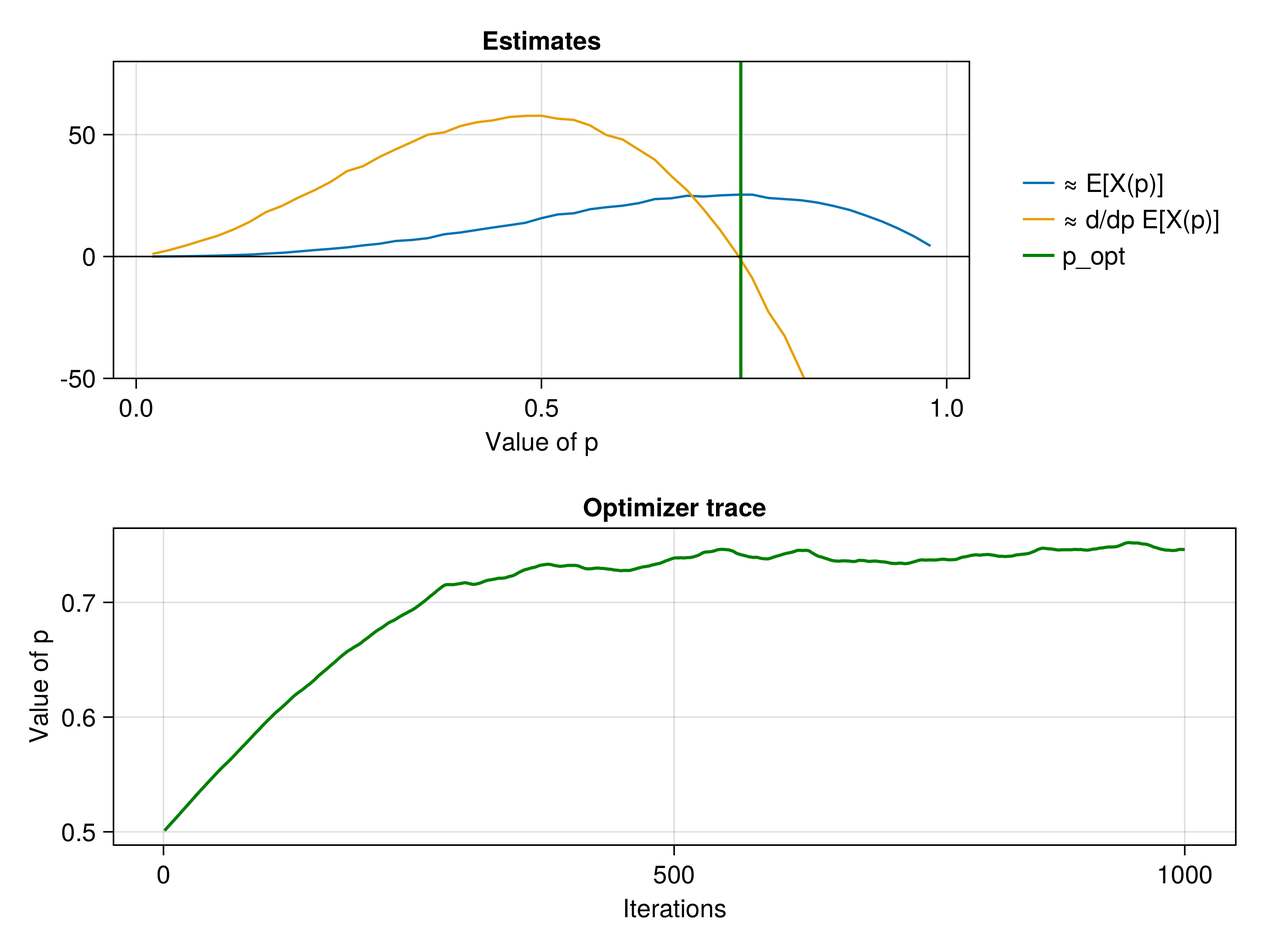
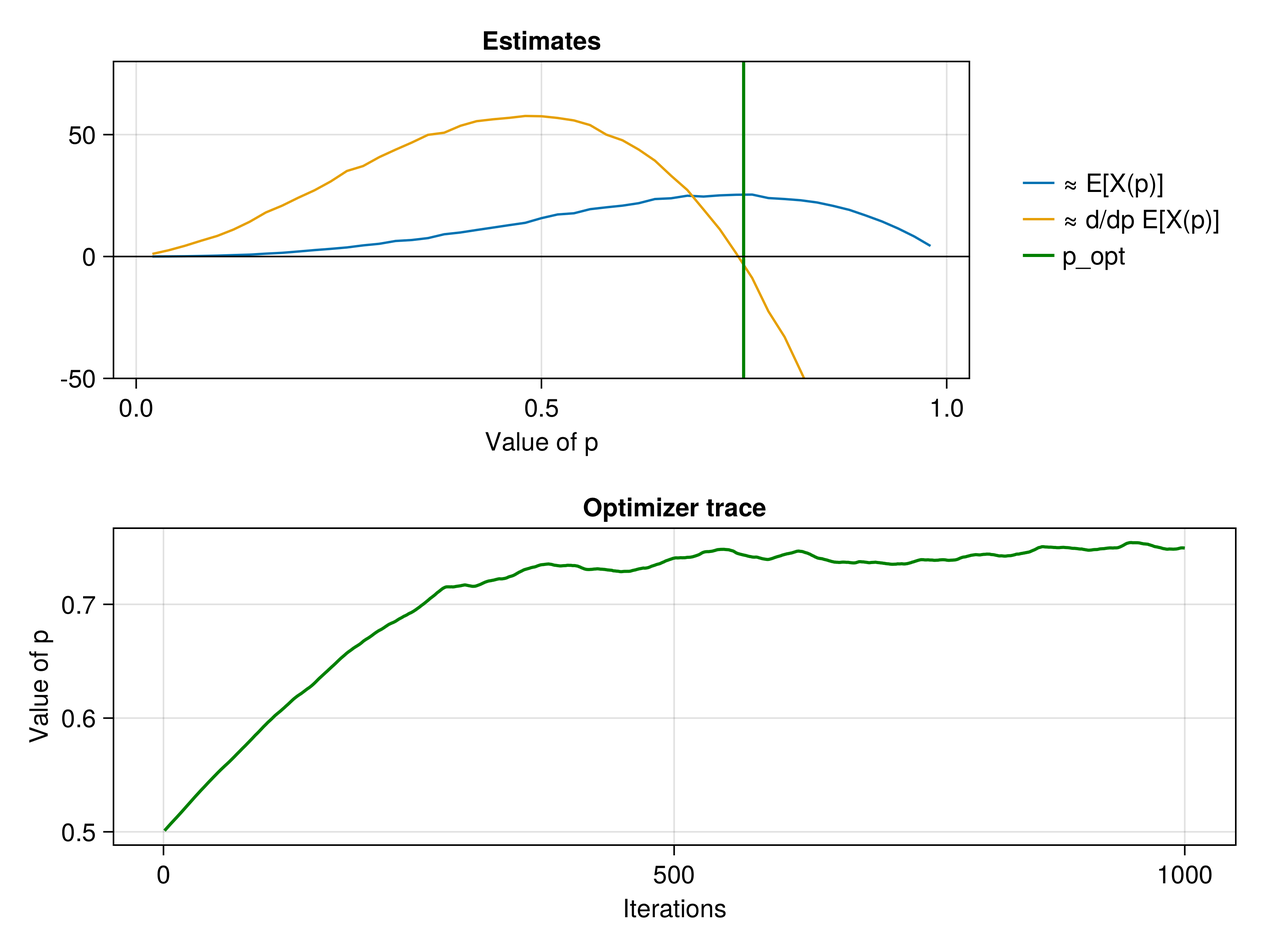
build based on 7ea0443

diff --git a/dev/public_api.html b/dev/public_api.html
@@ -1,3 +1,3 @@
 <!DOCTYPE html>
-<html lang="en"><head><meta charset="UTF-8"/><meta name="viewport" content="width=device-width, initial-scale=1.0"/><title>Public API · StochasticAD.jl</title><script data-outdated-warner src="assets/warner.js"></script><link href="https://cdnjs.cloudflare.com/ajax/libs/lato-font/3.0.0/css/lato-font.min.css" rel="stylesheet" type="text/css"/><link href="https://cdnjs.cloudflare.com/ajax/libs/juliamono/0.045/juliamono.min.css" rel="stylesheet" type="text/css"/><link href="https://cdnjs.cloudflare.com/ajax/libs/font-awesome/5.15.4/css/fontawesome.min.css" rel="stylesheet" type="text/css"/><link href="https://cdnjs.cloudflare.com/ajax/libs/font-awesome/5.15.4/css/solid.min.css" rel="stylesheet" type="text/css"/><link href="https://cdnjs.cloudflare.com/ajax/libs/font-awesome/5.15.4/css/brands.min.css" rel="stylesheet" type="text/css"/><link href="https://cdnjs.cloudflare.com/ajax/libs/KaTeX/0.13.24/katex.min.css" rel="stylesheet" type="text/css"/><script>documenterBaseURL="."</script><script src="https://cdnjs.cloudflare.com/ajax/libs/require.js/2.3.6/require.min.js" data-main="assets/documenter.js"></script><script src="siteinfo.js"></script><script src="../versions.js"></script><link class="docs-theme-link" rel="stylesheet" type="text/css" href="assets/themes/documenter-dark.css" data-theme-name="documenter-dark" data-theme-primary-dark/><link class="docs-theme-link" rel="stylesheet" type="text/css" href="assets/themes/documenter-light.css" data-theme-name="documenter-light" data-theme-primary/><script src="assets/themeswap.js"></script><link href="assets/indigo.css" rel="stylesheet" type="text/css"/><link href="assets/extra_styles.css" rel="stylesheet" type="text/css"/></head><body><div id="documenter"><nav class="docs-sidebar"><div class="docs-package-name"><span class="docs-autofit"><a href="index.html">StochasticAD.jl</a></span></div><form class="docs-search" action="search.html"><input class="docs-search-query" id="documenter-search-query" name="q" type="text" placeholder="Search docs"/></form><ul class="docs-menu"><li><a class="tocitem" href="index.html">Overview</a></li><li><span class="tocitem">Tutorials</span><ul><li><a class="tocitem" href="tutorials/random_walk.html">Random walk</a></li><li><a class="tocitem" href="tutorials/game_of_life.html">Stochastic Game of Life</a></li><li><a class="tocitem" href="tutorials/particle_filter.html">Differentiable particle filter</a></li><li><a class="tocitem" href="tutorials/optimizations.html">Stochastic optimizations with discrete randomness</a></li></ul></li><li class="is-active"><a class="tocitem" href="public_api.html">Public API</a><ul class="internal"><li><a class="tocitem" href="#Smoothing"><span>Smoothing</span></a></li><li><a class="tocitem" href="#Optimization"><span>Optimization</span></a></li></ul></li><li><a class="tocitem" href="limitations.html">Limitations</a></li></ul><div class="docs-version-selector field has-addons"><div class="control"><span class="docs-label button is-static is-size-7">Version</span></div><div class="docs-selector control is-expanded"><div class="select is-fullwidth is-size-7"><select id="documenter-version-selector"></select></div></div></div></nav><div class="docs-main"><header class="docs-navbar"><nav class="breadcrumb"><ul class="is-hidden-mobile"><li class="is-active"><a href="public_api.html">Public API</a></li></ul><ul class="is-hidden-tablet"><li class="is-active"><a href="public_api.html">Public API</a></li></ul></nav><div class="docs-right"><a class="docs-navbar-link" href="https://github.com/gaurav-arya/StochasticAD.jl" title="View the repository on GitHub"><span class="docs-icon fab"></span><span class="docs-label is-hidden-touch">GitHub</span></a><a class="docs-navbar-link" href="https://github.com/gaurav-arya/StochasticAD.jl/blob/main/docs/src/public_api.md" title="Edit source on GitHub"><span class="docs-icon fas"></span></a><a class="docs-settings-button docs-navbar-link fas fa-cog" id="documenter-settings-button" href="#" title="Settings"></a><a class="docs-sidebar-button docs-navbar-link fa fa-bars is-hidden-desktop" id="documenter-sidebar-button" href="#"></a></div></header><article class="content" id="documenter-page"><h1 id="API-walkthrough"><a class="docs-heading-anchor" href="#API-walkthrough">API walkthrough</a><a id="API-walkthrough-1"></a><a class="docs-heading-anchor-permalink" href="#API-walkthrough" title="Permalink"></a></h1><p>The function <a href="public_api.html#StochasticAD.derivative_estimate"><code>derivative_estimate</code></a> transforms a stochastic program containing discrete randomness into a new program whose average is the derivative of the original.</p><article class="docstring"><header><a class="docstring-binding" id="StochasticAD.derivative_estimate" href="#StochasticAD.derivative_estimate"><code>StochasticAD.derivative_estimate</code></a> — <span class="docstring-category">Function</span></header><section><div><pre><code class="language-julia hljs">derivative_estimate(X, p::Real; backend=StochasticAD.PrunedFIs)</code></pre><p>Computes an unbiased estimate of <span>$\frac{\mathrm{d}\mathbb{E}[X(p)]}{\mathrm{d}p}$</span>, the derivative of the expectation of the random function <code>X(p)</code> with respect to its input <code>p</code>. The <code>backend</code> keyword argument describes the algorithm used by the third component of the stochastic triple, see <a href="devdocs.html">Technical details</a> for more details.</p></div><a class="docs-sourcelink" target="_blank" href="https://github.com/gaurav-arya/StochasticAD.jl/blob/158fa974ca15a164decbaf1304713aba15dc30d8/src/stochastic_triple.jl#L157-L162">source</a></section></article><p>While <a href="public_api.html#StochasticAD.derivative_estimate"><code>derivative_estimate</code></a> is self-contained, we can also use the functions below to work with stochastic triples directly.</p><article class="docstring"><header><a class="docstring-binding" id="StochasticAD.stochastic_triple" href="#StochasticAD.stochastic_triple"><code>StochasticAD.stochastic_triple</code></a> — <span class="docstring-category">Function</span></header><section><div><pre><code class="language-julia hljs">stochastic_triple(X, p::Real; kwargs...)
-stochastic_triple(p::Real; kwargs...)</code></pre><p>Return the result of propagating the stochastic triple <code>p + ε</code> through the random function <code>X(p)</code>. When <code>X</code> is not provided, the identity function is used, i.e. the triple <code>p + ε</code> is returned.</p></div><a class="docs-sourcelink" target="_blank" href="https://github.com/gaurav-arya/StochasticAD.jl/blob/158fa974ca15a164decbaf1304713aba15dc30d8/src/stochastic_triple.jl#L142-L148">source</a></section></article><article class="docstring"><header><a class="docstring-binding" id="StochasticAD.derivative_contribution" href="#StochasticAD.derivative_contribution"><code>StochasticAD.derivative_contribution</code></a> — <span class="docstring-category">Function</span></header><section><div><pre><code class="language-julia hljs">derivative_contribution(st::StochasticTriple)</code></pre><p>Return the derivative estimate given by combining the dual and triple components of <code>st</code>.</p></div><a class="docs-sourcelink" target="_blank" href="https://github.com/gaurav-arya/StochasticAD.jl/blob/158fa974ca15a164decbaf1304713aba15dc30d8/src/stochastic_triple.jl#L51-L55">source</a></section></article><article class="docstring"><header><a class="docstring-binding" id="StochasticAD.value" href="#StochasticAD.value"><code>StochasticAD.value</code></a> — <span class="docstring-category">Function</span></header><section><div><pre><code class="language-julia hljs">value(st::StochasticTriple)</code></pre><p>Return the primal value of <code>st</code>.</p></div><a class="docs-sourcelink" target="_blank" href="https://github.com/gaurav-arya/StochasticAD.jl/blob/158fa974ca15a164decbaf1304713aba15dc30d8/src/stochastic_triple.jl#L27-L31">source</a></section></article><article class="docstring"><header><a class="docstring-binding" id="StochasticAD.delta" href="#StochasticAD.delta"><code>StochasticAD.delta</code></a> — <span class="docstring-category">Function</span></header><section><div><pre><code class="language-julia hljs">delta(st::StochasticTriple)</code></pre><p>Return the almost-sure derivative of <code>st</code>, i.e. the rate of infinitesimal change.</p></div><a class="docs-sourcelink" target="_blank" href="https://github.com/gaurav-arya/StochasticAD.jl/blob/158fa974ca15a164decbaf1304713aba15dc30d8/src/stochastic_triple.jl#L35-L39">source</a></section></article><article class="docstring"><header><a class="docstring-binding" id="StochasticAD.perturbations" href="#StochasticAD.perturbations"><code>StochasticAD.perturbations</code></a> — <span class="docstring-category">Function</span></header><section><div><pre><code class="language-julia hljs">perturbations(st::StochasticTriple)</code></pre><p>Return the finite perturbation(s) of <code>st</code>, in a format dependent on the <a href="devdocs.html">backend</a> used for storing perturbations.</p></div><a class="docs-sourcelink" target="_blank" href="https://github.com/gaurav-arya/StochasticAD.jl/blob/158fa974ca15a164decbaf1304713aba15dc30d8/src/stochastic_triple.jl#L43-L47">source</a></section></article><p>Note that <a href="public_api.html#StochasticAD.derivative_estimate"><code>derivative_estimate</code></a> is simply the composition of <a href="public_api.html#StochasticAD.stochastic_triple"><code>stochastic_triple</code></a> and <a href="public_api.html#StochasticAD.derivative_contribution"><code>derivative_contribution</code></a>. </p><h2 id="Smoothing"><a class="docs-heading-anchor" href="#Smoothing">Smoothing</a><a id="Smoothing-1"></a><a class="docs-heading-anchor-permalink" href="#Smoothing" title="Permalink"></a></h2><p>What happens if we run <a href="public_api.html#StochasticAD.derivative_contribution"><code>derivative_contribution</code></a> after each step, instead of only at the end? This is <em>smoothing</em>, which combines the second and third components of a single stochastic triple into a single dual component. Smoothing no longer has a guarantee of unbiasedness, but is surprisingly accurate in a number of situations. </p><p>[<em>Smoothing functionality coming soon.</em>]</p><h2 id="Optimization"><a class="docs-heading-anchor" href="#Optimization">Optimization</a><a id="Optimization-1"></a><a class="docs-heading-anchor-permalink" href="#Optimization" title="Permalink"></a></h2><p>We also provide utilities to make it easier to get started with forming and training a model via stochastic gradient descent:</p><article class="docstring"><header><a class="docstring-binding" id="StochasticAD.StochasticModel" href="#StochasticAD.StochasticModel"><code>StochasticAD.StochasticModel</code></a> — <span class="docstring-category">Type</span></header><section><div><pre><code class="language-julia hljs">StochasticModel(p, X)</code></pre><p>Combine stochastic program <code>X</code> with parameter <code>p</code> into  a trainable model using <a href="https://fluxml.ai/Functors.jl/stable/">Functors</a>  (formulate as a minimization problem, i.e. find <span>$p$</span> that minimizes <span>$\mathbb{E}[X(p)]$</span>).</p></div><a class="docs-sourcelink" target="_blank" href="https://github.com/gaurav-arya/StochasticAD.jl/blob/158fa974ca15a164decbaf1304713aba15dc30d8/src/misc.jl#L25-L31">source</a></section></article><article class="docstring"><header><a class="docstring-binding" id="StochasticAD.stochastic_gradient" href="#StochasticAD.stochastic_gradient"><code>StochasticAD.stochastic_gradient</code></a> — <span class="docstring-category">Function</span></header><section><div><pre><code class="language-julia hljs">stochastic_gradient(m::StochasticModel)</code></pre><p>Compute gradient with respect to the trainable parameter <code>p</code> of <code>StochasticModel(p, X)</code></p></div><a class="docs-sourcelink" target="_blank" href="https://github.com/gaurav-arya/StochasticAD.jl/blob/158fa974ca15a164decbaf1304713aba15dc30d8/src/misc.jl#L38-L42">source</a></section></article><p>These are used in the <a href="`tutorials/optimizations.md`">tutorial on stochastic optimization</a>.</p></article><nav class="docs-footer"><a class="docs-footer-prevpage" href="tutorials/optimizations.html">« Stochastic optimizations with discrete randomness</a><a class="docs-footer-nextpage" href="limitations.html">Limitations »</a><div class="flexbox-break"></div><p class="footer-message">Powered by <a href="https://github.com/JuliaDocs/Documenter.jl">Documenter.jl</a> and the <a href="https://julialang.org/">Julia Programming Language</a>.</p></nav></div><div class="modal" id="documenter-settings"><div class="modal-background"></div><div class="modal-card"><header class="modal-card-head"><p class="modal-card-title">Settings</p><button class="delete"></button></header><section class="modal-card-body"><p><label class="label">Theme</label><div class="select"><select id="documenter-themepicker"><option value="documenter-light">documenter-light</option><option value="documenter-dark">documenter-dark</option></select></div></p><hr/><p>This document was generated with <a href="https://github.com/JuliaDocs/Documenter.jl">Documenter.jl</a> version 0.28.0-DEV on <span class="colophon-date" title="Friday 21 October 2022 02:34">Friday 21 October 2022</span>. Using Julia version 1.8.2.</p></section><footer class="modal-card-foot"></footer></div></div></div></body></html>
+<html lang="en"><head><meta charset="UTF-8"/><meta name="viewport" content="width=device-width, initial-scale=1.0"/><title>Public API · StochasticAD.jl</title><script data-outdated-warner src="assets/warner.js"></script><link href="https://cdnjs.cloudflare.com/ajax/libs/lato-font/3.0.0/css/lato-font.min.css" rel="stylesheet" type="text/css"/><link href="https://cdnjs.cloudflare.com/ajax/libs/juliamono/0.045/juliamono.min.css" rel="stylesheet" type="text/css"/><link href="https://cdnjs.cloudflare.com/ajax/libs/font-awesome/5.15.4/css/fontawesome.min.css" rel="stylesheet" type="text/css"/><link href="https://cdnjs.cloudflare.com/ajax/libs/font-awesome/5.15.4/css/solid.min.css" rel="stylesheet" type="text/css"/><link href="https://cdnjs.cloudflare.com/ajax/libs/font-awesome/5.15.4/css/brands.min.css" rel="stylesheet" type="text/css"/><link href="https://cdnjs.cloudflare.com/ajax/libs/KaTeX/0.13.24/katex.min.css" rel="stylesheet" type="text/css"/><script>documenterBaseURL="."</script><script src="https://cdnjs.cloudflare.com/ajax/libs/require.js/2.3.6/require.min.js" data-main="assets/documenter.js"></script><script src="siteinfo.js"></script><script src="../versions.js"></script><link class="docs-theme-link" rel="stylesheet" type="text/css" href="assets/themes/documenter-dark.css" data-theme-name="documenter-dark" data-theme-primary-dark/><link class="docs-theme-link" rel="stylesheet" type="text/css" href="assets/themes/documenter-light.css" data-theme-name="documenter-light" data-theme-primary/><script src="assets/themeswap.js"></script><link href="assets/indigo.css" rel="stylesheet" type="text/css"/><link href="assets/extra_styles.css" rel="stylesheet" type="text/css"/></head><body><div id="documenter"><nav class="docs-sidebar"><div class="docs-package-name"><span class="docs-autofit"><a href="index.html">StochasticAD.jl</a></span></div><form class="docs-search" action="search.html"><input class="docs-search-query" id="documenter-search-query" name="q" type="text" placeholder="Search docs"/></form><ul class="docs-menu"><li><a class="tocitem" href="index.html">Overview</a></li><li><span class="tocitem">Tutorials</span><ul><li><a class="tocitem" href="tutorials/random_walk.html">Random walk</a></li><li><a class="tocitem" href="tutorials/game_of_life.html">Stochastic Game of Life</a></li><li><a class="tocitem" href="tutorials/particle_filter.html">Differentiable particle filter</a></li><li><a class="tocitem" href="tutorials/optimizations.html">Stochastic optimizations with discrete randomness</a></li></ul></li><li class="is-active"><a class="tocitem" href="public_api.html">Public API</a><ul class="internal"><li><a class="tocitem" href="#Smoothing"><span>Smoothing</span></a></li><li><a class="tocitem" href="#Optimization"><span>Optimization</span></a></li></ul></li><li><a class="tocitem" href="limitations.html">Limitations</a></li></ul><div class="docs-version-selector field has-addons"><div class="control"><span class="docs-label button is-static is-size-7">Version</span></div><div class="docs-selector control is-expanded"><div class="select is-fullwidth is-size-7"><select id="documenter-version-selector"></select></div></div></div></nav><div class="docs-main"><header class="docs-navbar"><nav class="breadcrumb"><ul class="is-hidden-mobile"><li class="is-active"><a href="public_api.html">Public API</a></li></ul><ul class="is-hidden-tablet"><li class="is-active"><a href="public_api.html">Public API</a></li></ul></nav><div class="docs-right"><a class="docs-navbar-link" href="https://github.com/gaurav-arya/StochasticAD.jl" title="View the repository on GitHub"><span class="docs-icon fab"></span><span class="docs-label is-hidden-touch">GitHub</span></a><a class="docs-navbar-link" href="https://github.com/gaurav-arya/StochasticAD.jl/blob/main/docs/src/public_api.md" title="Edit source on GitHub"><span class="docs-icon fas"></span></a><a class="docs-settings-button docs-navbar-link fas fa-cog" id="documenter-settings-button" href="#" title="Settings"></a><a class="docs-sidebar-button docs-navbar-link fa fa-bars is-hidden-desktop" id="documenter-sidebar-button" href="#"></a></div></header><article class="content" id="documenter-page"><h1 id="API-walkthrough"><a class="docs-heading-anchor" href="#API-walkthrough">API walkthrough</a><a id="API-walkthrough-1"></a><a class="docs-heading-anchor-permalink" href="#API-walkthrough" title="Permalink"></a></h1><p>The function <a href="public_api.html#StochasticAD.derivative_estimate"><code>derivative_estimate</code></a> transforms a stochastic program containing discrete randomness into a new program whose average is the derivative of the original.</p><article class="docstring"><header><a class="docstring-binding" id="StochasticAD.derivative_estimate" href="#StochasticAD.derivative_estimate"><code>StochasticAD.derivative_estimate</code></a> — <span class="docstring-category">Function</span></header><section><div><pre><code class="language-julia hljs">derivative_estimate(X, p::Real; backend=StochasticAD.PrunedFIs)</code></pre><p>Computes an unbiased estimate of <span>$\frac{\mathrm{d}\mathbb{E}[X(p)]}{\mathrm{d}p}$</span>, the derivative of the expectation of the random function <code>X(p)</code> with respect to its input <code>p</code>. The <code>backend</code> keyword argument describes the algorithm used by the third component of the stochastic triple, see <a href="devdocs.html">Technical details</a> for more details.</p></div><a class="docs-sourcelink" target="_blank" href="https://github.com/gaurav-arya/StochasticAD.jl/blob/7ea0443082dee2323f0f2011adb00408d8ec82c5/src/stochastic_triple.jl#L157-L162">source</a></section></article><p>While <a href="public_api.html#StochasticAD.derivative_estimate"><code>derivative_estimate</code></a> is self-contained, we can also use the functions below to work with stochastic triples directly.</p><article class="docstring"><header><a class="docstring-binding" id="StochasticAD.stochastic_triple" href="#StochasticAD.stochastic_triple"><code>StochasticAD.stochastic_triple</code></a> — <span class="docstring-category">Function</span></header><section><div><pre><code class="language-julia hljs">stochastic_triple(X, p::Real; kwargs...)
+stochastic_triple(p::Real; kwargs...)</code></pre><p>Return the result of propagating the stochastic triple <code>p + ε</code> through the random function <code>X(p)</code>. When <code>X</code> is not provided, the identity function is used, i.e. the triple <code>p + ε</code> is returned.</p></div><a class="docs-sourcelink" target="_blank" href="https://github.com/gaurav-arya/StochasticAD.jl/blob/7ea0443082dee2323f0f2011adb00408d8ec82c5/src/stochastic_triple.jl#L142-L148">source</a></section></article><article class="docstring"><header><a class="docstring-binding" id="StochasticAD.derivative_contribution" href="#StochasticAD.derivative_contribution"><code>StochasticAD.derivative_contribution</code></a> — <span class="docstring-category">Function</span></header><section><div><pre><code class="language-julia hljs">derivative_contribution(st::StochasticTriple)</code></pre><p>Return the derivative estimate given by combining the dual and triple components of <code>st</code>.</p></div><a class="docs-sourcelink" target="_blank" href="https://github.com/gaurav-arya/StochasticAD.jl/blob/7ea0443082dee2323f0f2011adb00408d8ec82c5/src/stochastic_triple.jl#L51-L55">source</a></section></article><article class="docstring"><header><a class="docstring-binding" id="StochasticAD.value" href="#StochasticAD.value"><code>StochasticAD.value</code></a> — <span class="docstring-category">Function</span></header><section><div><pre><code class="language-julia hljs">value(st::StochasticTriple)</code></pre><p>Return the primal value of <code>st</code>.</p></div><a class="docs-sourcelink" target="_blank" href="https://github.com/gaurav-arya/StochasticAD.jl/blob/7ea0443082dee2323f0f2011adb00408d8ec82c5/src/stochastic_triple.jl#L27-L31">source</a></section></article><article class="docstring"><header><a class="docstring-binding" id="StochasticAD.delta" href="#StochasticAD.delta"><code>StochasticAD.delta</code></a> — <span class="docstring-category">Function</span></header><section><div><pre><code class="language-julia hljs">delta(st::StochasticTriple)</code></pre><p>Return the almost-sure derivative of <code>st</code>, i.e. the rate of infinitesimal change.</p></div><a class="docs-sourcelink" target="_blank" href="https://github.com/gaurav-arya/StochasticAD.jl/blob/7ea0443082dee2323f0f2011adb00408d8ec82c5/src/stochastic_triple.jl#L35-L39">source</a></section></article><article class="docstring"><header><a class="docstring-binding" id="StochasticAD.perturbations" href="#StochasticAD.perturbations"><code>StochasticAD.perturbations</code></a> — <span class="docstring-category">Function</span></header><section><div><pre><code class="language-julia hljs">perturbations(st::StochasticTriple)</code></pre><p>Return the finite perturbation(s) of <code>st</code>, in a format dependent on the <a href="devdocs.html">backend</a> used for storing perturbations.</p></div><a class="docs-sourcelink" target="_blank" href="https://github.com/gaurav-arya/StochasticAD.jl/blob/7ea0443082dee2323f0f2011adb00408d8ec82c5/src/stochastic_triple.jl#L43-L47">source</a></section></article><p>Note that <a href="public_api.html#StochasticAD.derivative_estimate"><code>derivative_estimate</code></a> is simply the composition of <a href="public_api.html#StochasticAD.stochastic_triple"><code>stochastic_triple</code></a> and <a href="public_api.html#StochasticAD.derivative_contribution"><code>derivative_contribution</code></a>. </p><h2 id="Smoothing"><a class="docs-heading-anchor" href="#Smoothing">Smoothing</a><a id="Smoothing-1"></a><a class="docs-heading-anchor-permalink" href="#Smoothing" title="Permalink"></a></h2><p>What happens if we run <a href="public_api.html#StochasticAD.derivative_contribution"><code>derivative_contribution</code></a> after each step, instead of only at the end? This is <em>smoothing</em>, which combines the second and third components of a single stochastic triple into a single dual component. Smoothing no longer has a guarantee of unbiasedness, but is surprisingly accurate in a number of situations. </p><p>[<em>Smoothing functionality coming soon.</em>]</p><h2 id="Optimization"><a class="docs-heading-anchor" href="#Optimization">Optimization</a><a id="Optimization-1"></a><a class="docs-heading-anchor-permalink" href="#Optimization" title="Permalink"></a></h2><p>We also provide utilities to make it easier to get started with forming and training a model via stochastic gradient descent:</p><article class="docstring"><header><a class="docstring-binding" id="StochasticAD.StochasticModel" href="#StochasticAD.StochasticModel"><code>StochasticAD.StochasticModel</code></a> — <span class="docstring-category">Type</span></header><section><div><pre><code class="language-julia hljs">StochasticModel(p, X)</code></pre><p>Combine stochastic program <code>X</code> with parameter <code>p</code> into  a trainable model using <a href="https://fluxml.ai/Functors.jl/stable/">Functors</a>  (formulate as a minimization problem, i.e. find <span>$p$</span> that minimizes <span>$\mathbb{E}[X(p)]$</span>).</p></div><a class="docs-sourcelink" target="_blank" href="https://github.com/gaurav-arya/StochasticAD.jl/blob/7ea0443082dee2323f0f2011adb00408d8ec82c5/src/misc.jl#L25-L31">source</a></section></article><article class="docstring"><header><a class="docstring-binding" id="StochasticAD.stochastic_gradient" href="#StochasticAD.stochastic_gradient"><code>StochasticAD.stochastic_gradient</code></a> — <span class="docstring-category">Function</span></header><section><div><pre><code class="language-julia hljs">stochastic_gradient(m::StochasticModel)</code></pre><p>Compute gradient with respect to the trainable parameter <code>p</code> of <code>StochasticModel(p, X)</code></p></div><a class="docs-sourcelink" target="_blank" href="https://github.com/gaurav-arya/StochasticAD.jl/blob/7ea0443082dee2323f0f2011adb00408d8ec82c5/src/misc.jl#L38-L42">source</a></section></article><p>These are used in the <a href="`tutorials/optimizations.md`">tutorial on stochastic optimization</a>.</p></article><nav class="docs-footer"><a class="docs-footer-prevpage" href="tutorials/optimizations.html">« Stochastic optimizations with discrete randomness</a><a class="docs-footer-nextpage" href="limitations.html">Limitations »</a><div class="flexbox-break"></div><p class="footer-message">Powered by <a href="https://github.com/JuliaDocs/Documenter.jl">Documenter.jl</a> and the <a href="https://julialang.org/">Julia Programming Language</a>.</p></nav></div><div class="modal" id="documenter-settings"><div class="modal-background"></div><div class="modal-card"><header class="modal-card-head"><p class="modal-card-title">Settings</p><button class="delete"></button></header><section class="modal-card-body"><p><label class="label">Theme</label><div class="select"><select id="documenter-themepicker"><option value="documenter-light">documenter-light</option><option value="documenter-dark">documenter-dark</option></select></div></p><hr/><p>This document was generated with <a href="https://github.com/JuliaDocs/Documenter.jl">Documenter.jl</a> version 0.28.0-DEV on <span class="colophon-date" title="Friday 21 October 2022 02:34">Friday 21 October 2022</span>. Using Julia version 1.8.2.</p></section><footer class="modal-card-foot"></footer></div></div></div></body></html>

diff --git a/dev/tutorials/random_walk.html b/dev/tutorials/random_walk.html
@@ -19,12 +19,12 @@ make_probs(p) = X -&gt; SA[1 - exp(-X / p), exp(-X / p)]
 f(p, n) = simulate_walk(make_probs(p), steps, n)
 @show f(50, 100) # let&#39;s run a single random walk with p = 50
 @show stochastic_triple(p -&gt; f(p, 100), 50) # let&#39;s see how a single stochastic triple looks like at p = 50</code></pre><pre class="documenter-example-output"><code class="nohighlight hljs ansi">StochasticTriple of Int64:
-36 + 0ε + (2 with probability 0.24389680963212407ε, tag 1)</code></pre><p>Time to differentiate! For fun, let&#39;s differentiate the <em>square</em> of the output of the random walk.</p><pre><code class="language-julia hljs">f_squared(p, n) = f(p, n)^2
+26 + 0ε + (2 with probability 0.5872828833598159ε, tag 1)</code></pre><p>Time to differentiate! For fun, let&#39;s differentiate the <em>square</em> of the output of the random walk.</p><pre><code class="language-julia hljs">f_squared(p, n) = f(p, n)^2
 
 samples = [derivative_estimate(p -&gt; f_squared(p, 100), 50) for i in 1:1000] # many samples from derivative program at p = 50
 derivative = mean(samples)
 uncertainty = std(samples) / sqrt(1000)
-println(&quot;derivative of 𝔼[f_squared] = $derivative ± $uncertainty&quot;)</code></pre><pre class="documenter-example-output"><code class="nohighlight hljs ansi">derivative of 𝔼[f_squared] = 29.794913686950558 ± 0.685058515964476</code></pre><h2 id="Computing-variance"><a class="docs-heading-anchor" href="#Computing-variance">Computing variance</a><a id="Computing-variance-1"></a><a class="docs-heading-anchor-permalink" href="#Computing-variance" title="Permalink"></a></h2><p>A crucial figure of merit for a derivative estimator is its variance. We compute the standard deviation (square root of the variance) of our estimator over a range of <code>n</code>.</p><pre><code class="language-julia hljs">n_range = 10:10:100 # range for testing asymptotic variance behaviour
+println(&quot;derivative of 𝔼[f_squared] = $derivative ± $uncertainty&quot;)</code></pre><pre class="documenter-example-output"><code class="nohighlight hljs ansi">derivative of 𝔼[f_squared] = 30.957789204511066 ± 0.7020134255964809</code></pre><h2 id="Computing-variance"><a class="docs-heading-anchor" href="#Computing-variance">Computing variance</a><a id="Computing-variance-1"></a><a class="docs-heading-anchor-permalink" href="#Computing-variance" title="Permalink"></a></h2><p>A crucial figure of merit for a derivative estimator is its variance. We compute the standard deviation (square root of the variance) of our estimator over a range of <code>n</code>.</p><pre><code class="language-julia hljs">n_range = 10:10:100 # range for testing asymptotic variance behaviour
 p_range = 2 .* n_range
 nsamples = 10000
 
@@ -35,13 +35,13 @@ for (n, p) in zip(n_range, p_range)
     push!(stds_triple, std_triple)
 end
 @show stds_triple</code></pre><pre class="documenter-example-output"><code class="nohighlight hljs ansi">10-element Vector{Float64}:
- 0.9887713550011559
- 1.5698596037490222
- 2.20298164170693
- 2.8392711728674813
- 3.4103277525995868
- 4.0194135212966495
- 4.626140877346654
- 5.284928415845148
- 5.911773136500249
- 6.563822363307751</code></pre><p>For comparison with other unbiased estimators, we also compute <code>stds_score</code> and <code>stds_score_baseline</code> for the <a href="https://arxiv.org/pdf/1906.10652.pdf">score function gradient estimator</a>, both without and with a variance-reducing batch-average control variate (CV). (For details, see <a href="https://github.com/gaurav-arya/StochasticAD.jl/blob/main/tutorials/random_walk/core.jl"><code>core.jl</code></a> and <a href="https://github.com/gaurav-arya/StochasticAD.jl/blob/main/random_walk/compare_score.jl"><code>compare_score.jl</code></a>.) We can now graph the standard deviation of each estimator versus <span>$n$</span>, observing lower variance in the unbiased derivative estimate produced by stochastic triples:</p><img src="../images/compare_score.png" width="50%"/><p> </p></article><nav class="docs-footer"><a class="docs-footer-prevpage" href="../index.html">« Overview</a><a class="docs-footer-nextpage" href="game_of_life.html">Stochastic Game of Life »</a><div class="flexbox-break"></div><p class="footer-message">Powered by <a href="https://github.com/JuliaDocs/Documenter.jl">Documenter.jl</a> and the <a href="https://julialang.org/">Julia Programming Language</a>.</p></nav></div><div class="modal" id="documenter-settings"><div class="modal-background"></div><div class="modal-card"><header class="modal-card-head"><p class="modal-card-title">Settings</p><button class="delete"></button></header><section class="modal-card-body"><p><label class="label">Theme</label><div class="select"><select id="documenter-themepicker"><option value="documenter-light">documenter-light</option><option value="documenter-dark">documenter-dark</option></select></div></p><hr/><p>This document was generated with <a href="https://github.com/JuliaDocs/Documenter.jl">Documenter.jl</a> version 0.28.0-DEV on <span class="colophon-date" title="Friday 21 October 2022 02:34">Friday 21 October 2022</span>. Using Julia version 1.8.2.</p></section><footer class="modal-card-foot"></footer></div></div></div></body></html>
+ 0.980978240828303
+ 1.5708026393126922
+ 2.2006115511024977
+ 2.804261454080635
+ 3.4192865981607676
+ 4.034988427819256
+ 4.64712438709769
+ 5.2553883474492205
+ 5.9442306249606425
+ 6.509214232470958</code></pre><p>For comparison with other unbiased estimators, we also compute <code>stds_score</code> and <code>stds_score_baseline</code> for the <a href="https://arxiv.org/pdf/1906.10652.pdf">score function gradient estimator</a>, both without and with a variance-reducing batch-average control variate (CV). (For details, see <a href="https://github.com/gaurav-arya/StochasticAD.jl/blob/main/tutorials/random_walk/core.jl"><code>core.jl</code></a> and <a href="https://github.com/gaurav-arya/StochasticAD.jl/blob/main/random_walk/compare_score.jl"><code>compare_score.jl</code></a>.) We can now graph the standard deviation of each estimator versus <span>$n$</span>, observing lower variance in the unbiased derivative estimate produced by stochastic triples:</p><img src="../images/compare_score.png" width="50%"/><p> </p></article><nav class="docs-footer"><a class="docs-footer-prevpage" href="../index.html">« Overview</a><a class="docs-footer-nextpage" href="game_of_life.html">Stochastic Game of Life »</a><div class="flexbox-break"></div><p class="footer-message">Powered by <a href="https://github.com/JuliaDocs/Documenter.jl">Documenter.jl</a> and the <a href="https://julialang.org/">Julia Programming Language</a>.</p></nav></div><div class="modal" id="documenter-settings"><div class="modal-background"></div><div class="modal-card"><header class="modal-card-head"><p class="modal-card-title">Settings</p><button class="delete"></button></header><section class="modal-card-body"><p><label class="label">Theme</label><div class="select"><select id="documenter-themepicker"><option value="documenter-light">documenter-light</option><option value="documenter-dark">documenter-dark</option></select></div></p><hr/><p>This document was generated with <a href="https://github.com/JuliaDocs/Documenter.jl">Documenter.jl</a> version 0.28.0-DEV on <span class="colophon-date" title="Friday 21 October 2022 02:34">Friday 21 October 2022</span>. Using Julia version 1.8.2.</p></section><footer class="modal-card-foot"></footer></div></div></div></body></html>

diff --git a/dev/tutorials/game_of_life.html b/dev/tutorials/game_of_life.html
@@ -54,5 +54,5 @@ play(0.5, 0.1) # play the game with p = 0.5 and θ = 0.1</code></pre><pre class=
 samples = [derivative_estimate(play, 0.5) for i in 1:10000] # take many samples
 derivative = mean(samples)
 uncertainty = std(samples) / sqrt(10000)
-println(&quot;derivative of 𝔼[play(p)] = $derivative ± $uncertainty&quot;)</code></pre><pre class="documenter-example-output"><code class="nohighlight hljs ansi">stochastic_triple(play, 0.5) = 87 + 0ε + (-2 with probability 68.0ε, tag 1)
-derivative of 𝔼[play(p)] = 159.6244 ± 14.674093241959156</code></pre><p>The following sketch of the final state of the board for a single run gives some insight into what the stochastic triples are doing. The original board is depicted in grey and white for dead and alive, and the cells which flip from dead to alive in the &quot;alternative&quot; path consider by the triples are marked with + signs, while the cells which flip from alive to dead are marked with X signs.</p><img src="../images/final_gol_board.png" width="50%"/><p> </p></article><nav class="docs-footer"><a class="docs-footer-prevpage" href="random_walk.html">« Random walk</a><a class="docs-footer-nextpage" href="particle_filter.html">Differentiable particle filter »</a><div class="flexbox-break"></div><p class="footer-message">Powered by <a href="https://github.com/JuliaDocs/Documenter.jl">Documenter.jl</a> and the <a href="https://julialang.org/">Julia Programming Language</a>.</p></nav></div><div class="modal" id="documenter-settings"><div class="modal-background"></div><div class="modal-card"><header class="modal-card-head"><p class="modal-card-title">Settings</p><button class="delete"></button></header><section class="modal-card-body"><p><label class="label">Theme</label><div class="select"><select id="documenter-themepicker"><option value="documenter-light">documenter-light</option><option value="documenter-dark">documenter-dark</option></select></div></p><hr/><p>This document was generated with <a href="https://github.com/JuliaDocs/Documenter.jl">Documenter.jl</a> version 0.28.0-DEV on <span class="colophon-date" title="Friday 21 October 2022 02:34">Friday 21 October 2022</span>. Using Julia version 1.8.2.</p></section><footer class="modal-card-foot"></footer></div></div></div></body></html>
+println(&quot;derivative of 𝔼[play(p)] = $derivative ± $uncertainty&quot;)</code></pre><pre class="documenter-example-output"><code class="nohighlight hljs ansi">stochastic_triple(play, 0.5) = 87 + 0ε + (1 with probability 152.0ε, tag 1)
+derivative of 𝔼[play(p)] = 136.1684 ± 14.716095079523745</code></pre><p>The following sketch of the final state of the board for a single run gives some insight into what the stochastic triples are doing. The original board is depicted in grey and white for dead and alive, and the cells which flip from dead to alive in the &quot;alternative&quot; path consider by the triples are marked with + signs, while the cells which flip from alive to dead are marked with X signs.</p><img src="../images/final_gol_board.png" width="50%"/><p> </p></article><nav class="docs-footer"><a class="docs-footer-prevpage" href="random_walk.html">« Random walk</a><a class="docs-footer-nextpage" href="particle_filter.html">Differentiable particle filter »</a><div class="flexbox-break"></div><p class="footer-message">Powered by <a href="https://github.com/JuliaDocs/Documenter.jl">Documenter.jl</a> and the <a href="https://julialang.org/">Julia Programming Language</a>.</p></nav></div><div class="modal" id="documenter-settings"><div class="modal-background"></div><div class="modal-card"><header class="modal-card-head"><p class="modal-card-title">Settings</p><button class="delete"></button></header><section class="modal-card-body"><p><label class="label">Theme</label><div class="select"><select id="documenter-themepicker"><option value="documenter-light">documenter-light</option><option value="documenter-dark">documenter-dark</option></select></div></p><hr/><p>This document was generated with <a href="https://github.com/JuliaDocs/Documenter.jl">Documenter.jl</a> version 0.28.0-DEV on <span class="colophon-date" title="Friday 21 October 2022 02:34">Friday 21 October 2022</span>. Using Julia version 1.8.2.</p></section><footer class="modal-card-foot"></footer></div></div></div></body></html>

diff --git a/dev/index.html b/dev/index.html
@@ -23,4 +23,4 @@ derivative = mean(samples)
 uncertainty = std(samples) / sqrt(1000)
 println(&quot;derivative of 𝔼[X(p)] = $derivative ± $uncertainty&quot;)</code></pre><pre class="documenter-example-output"><code class="nohighlight hljs ansi">stochastic_triple(X, 0.6) = 7.539501501605484 + -6.165835836009139ε + (4.28487537540137 with probability 17.5ε, tag 1)
 derivative_contribution(st) = 68.81948323351483
-derivative of 𝔼[X(p)] = 48.24344636672582 ± 0.6169720516669731</code></pre><h2 id="Index"><a class="docs-heading-anchor" href="#Index">Index</a><a id="Index-1"></a><a class="docs-heading-anchor-permalink" href="#Index" title="Permalink"></a></h2><p>See the <a href="public_api.html">public API</a> for a walkthrough of the API, and the tutorials on differentiating a <a href="tutorials/random_walk.html">random walk</a>, a <a href="tutorials/game_of_life.html">stochastic game of life</a>, and a <a href="tutorials/particle_filter.html">particle filter</a>, and solving <a href="tutorials/optimizations.html">stochastic optimization and variational problems</a> with discrete randomness. This is a prototype package with a number of <a href="limitations.html">limitations</a>.</p></article><nav class="docs-footer"><a class="docs-footer-nextpage" href="tutorials/random_walk.html">Random walk »</a><div class="flexbox-break"></div><p class="footer-message">Powered by <a href="https://github.com/JuliaDocs/Documenter.jl">Documenter.jl</a> and the <a href="https://julialang.org/">Julia Programming Language</a>.</p></nav></div><div class="modal" id="documenter-settings"><div class="modal-background"></div><div class="modal-card"><header class="modal-card-head"><p class="modal-card-title">Settings</p><button class="delete"></button></header><section class="modal-card-body"><p><label class="label">Theme</label><div class="select"><select id="documenter-themepicker"><option value="documenter-light">documenter-light</option><option value="documenter-dark">documenter-dark</option></select></div></p><hr/><p>This document was generated with <a href="https://github.com/JuliaDocs/Documenter.jl">Documenter.jl</a> version 0.28.0-DEV on <span class="colophon-date" title="Friday 21 October 2022 02:34">Friday 21 October 2022</span>. Using Julia version 1.8.2.</p></section><footer class="modal-card-foot"></footer></div></div></div></body></html>
+derivative of 𝔼[X(p)] = 47.953308558452825 ± 0.6255143010934692</code></pre><h2 id="Index"><a class="docs-heading-anchor" href="#Index">Index</a><a id="Index-1"></a><a class="docs-heading-anchor-permalink" href="#Index" title="Permalink"></a></h2><p>See the <a href="public_api.html">public API</a> for a walkthrough of the API, and the tutorials on differentiating a <a href="tutorials/random_walk.html">random walk</a>, a <a href="tutorials/game_of_life.html">stochastic game of life</a>, and a <a href="tutorials/particle_filter.html">particle filter</a>, and solving <a href="tutorials/optimizations.html">stochastic optimization and variational problems</a> with discrete randomness. This is a prototype package with a number of <a href="limitations.html">limitations</a>.</p></article><nav class="docs-footer"><a class="docs-footer-nextpage" href="tutorials/random_walk.html">Random walk »</a><div class="flexbox-break"></div><p class="footer-message">Powered by <a href="https://github.com/JuliaDocs/Documenter.jl">Documenter.jl</a> and the <a href="https://julialang.org/">Julia Programming Language</a>.</p></nav></div><div class="modal" id="documenter-settings"><div class="modal-background"></div><div class="modal-card"><header class="modal-card-head"><p class="modal-card-title">Settings</p><button class="delete"></button></header><section class="modal-card-body"><p><label class="label">Theme</label><div class="select"><select id="documenter-themepicker"><option value="documenter-light">documenter-light</option><option value="documenter-dark">documenter-dark</option></select></div></p><hr/><p>This document was generated with <a href="https://github.com/JuliaDocs/Documenter.jl">Documenter.jl</a> version 0.28.0-DEV on <span class="colophon-date" title="Friday 21 October 2022 02:34">Friday 21 October 2022</span>. Using Julia version 1.8.2.</p></section><footer class="modal-card-foot"></footer></div></div></div></body></html>

diff --git a/dev/tutorials/particle_filter.html b/dev/tutorials/particle_filter.html
@@ -243,4 +243,4 @@ t3 = measurement(mean(results[&quot;scaling&quot;][&quot;backward&quot;].times),
 @show t1 t2 t3
 
 ts = (t1, t2, t3) ./ 10^6 # ms
-@show ts</code></pre><pre class="documenter-example-output"><code class="nohighlight hljs ansi">(32.3 ± 1.4, 50.6 ± 3.1, 671.0 ± 22.0)</code></pre></article><nav class="docs-footer"><a class="docs-footer-prevpage" href="game_of_life.html">« Stochastic Game of Life</a><a class="docs-footer-nextpage" href="optimizations.html">Stochastic optimizations with discrete randomness »</a><div class="flexbox-break"></div><p class="footer-message">Powered by <a href="https://github.com/JuliaDocs/Documenter.jl">Documenter.jl</a> and the <a href="https://julialang.org/">Julia Programming Language</a>.</p></nav></div><div class="modal" id="documenter-settings"><div class="modal-background"></div><div class="modal-card"><header class="modal-card-head"><p class="modal-card-title">Settings</p><button class="delete"></button></header><section class="modal-card-body"><p><label class="label">Theme</label><div class="select"><select id="documenter-themepicker"><option value="documenter-light">documenter-light</option><option value="documenter-dark">documenter-dark</option></select></div></p><hr/><p>This document was generated with <a href="https://github.com/JuliaDocs/Documenter.jl">Documenter.jl</a> version 0.28.0-DEV on <span class="colophon-date" title="Friday 21 October 2022 02:34">Friday 21 October 2022</span>. Using Julia version 1.8.2.</p></section><footer class="modal-card-foot"></footer></div></div></div></body></html>
+@show ts</code></pre><pre class="documenter-example-output"><code class="nohighlight hljs ansi">(34.1 ± 1.4, 49.5 ± 2.8, 680.0 ± 25.0)</code></pre></article><nav class="docs-footer"><a class="docs-footer-prevpage" href="game_of_life.html">« Stochastic Game of Life</a><a class="docs-footer-nextpage" href="optimizations.html">Stochastic optimizations with discrete randomness »</a><div class="flexbox-break"></div><p class="footer-message">Powered by <a href="https://github.com/JuliaDocs/Documenter.jl">Documenter.jl</a> and the <a href="https://julialang.org/">Julia Programming Language</a>.</p></nav></div><div class="modal" id="documenter-settings"><div class="modal-background"></div><div class="modal-card"><header class="modal-card-head"><p class="modal-card-title">Settings</p><button class="delete"></button></header><section class="modal-card-body"><p><label class="label">Theme</label><div class="select"><select id="documenter-themepicker"><option value="documenter-light">documenter-light</option><option value="documenter-dark">documenter-dark</option></select></div></p><hr/><p>This document was generated with <a href="https://github.com/JuliaDocs/Documenter.jl">Documenter.jl</a> version 0.28.0-DEV on <span class="colophon-date" title="Friday 21 October 2022 02:34">Friday 21 October 2022</span>. Using Julia version 1.8.2.</p></section><footer class="modal-card-foot"></footer></div></div></div></body></html>

diff --git a/dev/tutorials/optimizations.html b/dev/tutorials/optimizations.html
@@ -17,7 +17,7 @@ for i in 1:iterations
     Optimisers.update!(s, m, stochastic_gradient(m))
     push!(trace, m.p[])
 end
-p_opt = m.p[] # Our optimized value of p</code></pre><pre class="documenter-example-output"><code class="nohighlight hljs ansi">0.7459895609550806</code></pre><p>Finally, let&#39;s plot the results of our optimization, and also perform a sweep through the parameter space to verify the accuracy of our estimator:</p><pre><code class="language-julia hljs">## Sweep through parameters to find average and derivative
+p_opt = m.p[] # Our optimized value of p</code></pre><pre class="documenter-example-output"><code class="nohighlight hljs ansi">0.7494617965430568</code></pre><p>Finally, let&#39;s plot the results of our optimization, and also perform a sweep through the parameter space to verify the accuracy of our estimator:</p><pre><code class="language-julia hljs">## Sweep through parameters to find average and derivative
 ps = 0.02:0.02:0.98 # values of p to sweep
 N = 1000 # number of samples at each p
 avg = [mean(X(p) for _ in 1:N) for p in ps]
